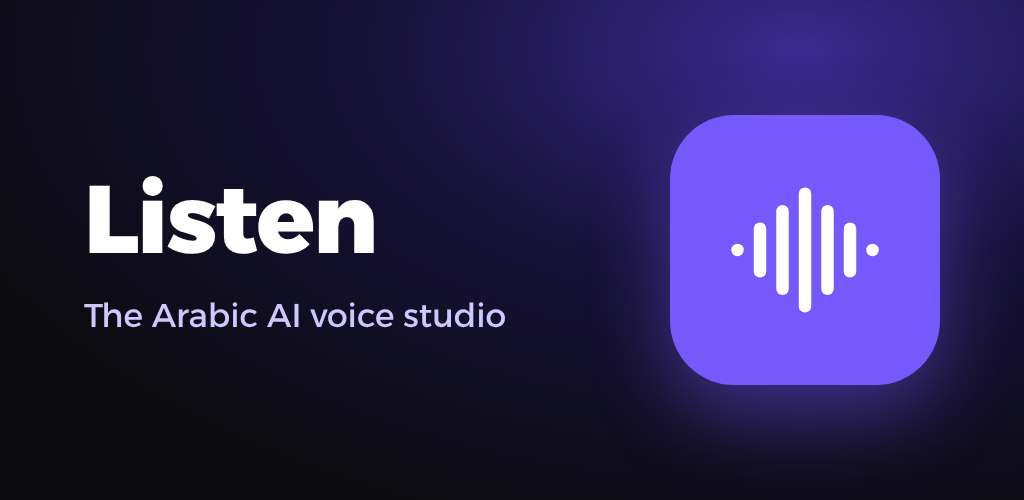
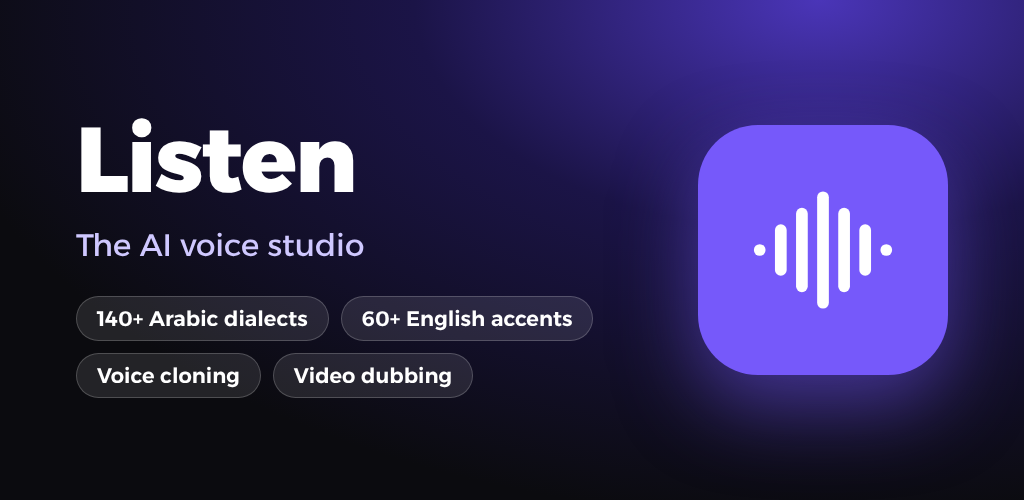
Store images: showcase screens with headlines for Arabic and English listings
Eight phone screens per language from the real pages (studio, Arabic dialects,
English accents, emotions, cloning, dubbing, agents, more languages), the
feature graphics and the icon. No price is shown.

Claude-Session: https://claude.ai/code/session_01UnVKR1899agD5xicMbjeLp

diff --git a/mobile/README.md b/mobile/README.md
@@ -224,10 +224,14 @@ Privacy: https://listenai.studio/en/privacy-policy
 
 - Category: **Productivity**. Tags: text to speech, voice.
 - Contact email: the support address the site already shows. Website: `https://listenai.studio`.
-- Graphics you need to make: the icon 512×512 (the site's mark, white on the brand purple
-  `#7659FA`, as the app's icon is), a feature graphic 1024×500, and at least two phone
-  screenshots (take them from the app on your phone: the studio, the player, the agents
-  page). Do not use a screenshot that shows a price.
+- Graphics: they are ready in `mobile/store/`. Upload them as they are:
+  - `icon-512.png`: the app icon (512×512).
+  - `feature-ar-1024x500.png` and `feature-en-1024x500.png`: the feature graphic for each language.
+  - `phone-ar-1…8.png` and `phone-en-1…8.png`: eight phone screenshots (1080×1920) for each
+    language, in this order: the studio, Arabic dialects, English accents, emotions, voice
+    cloning, dubbing, voice agents, voices in more languages. They are made from the real
+    pages and show no price. Screen 8 shows the French, Spanish, German and other voices of
+    the samples page: leave it out if members cannot generate in those languages yet.
 
 ---
 
